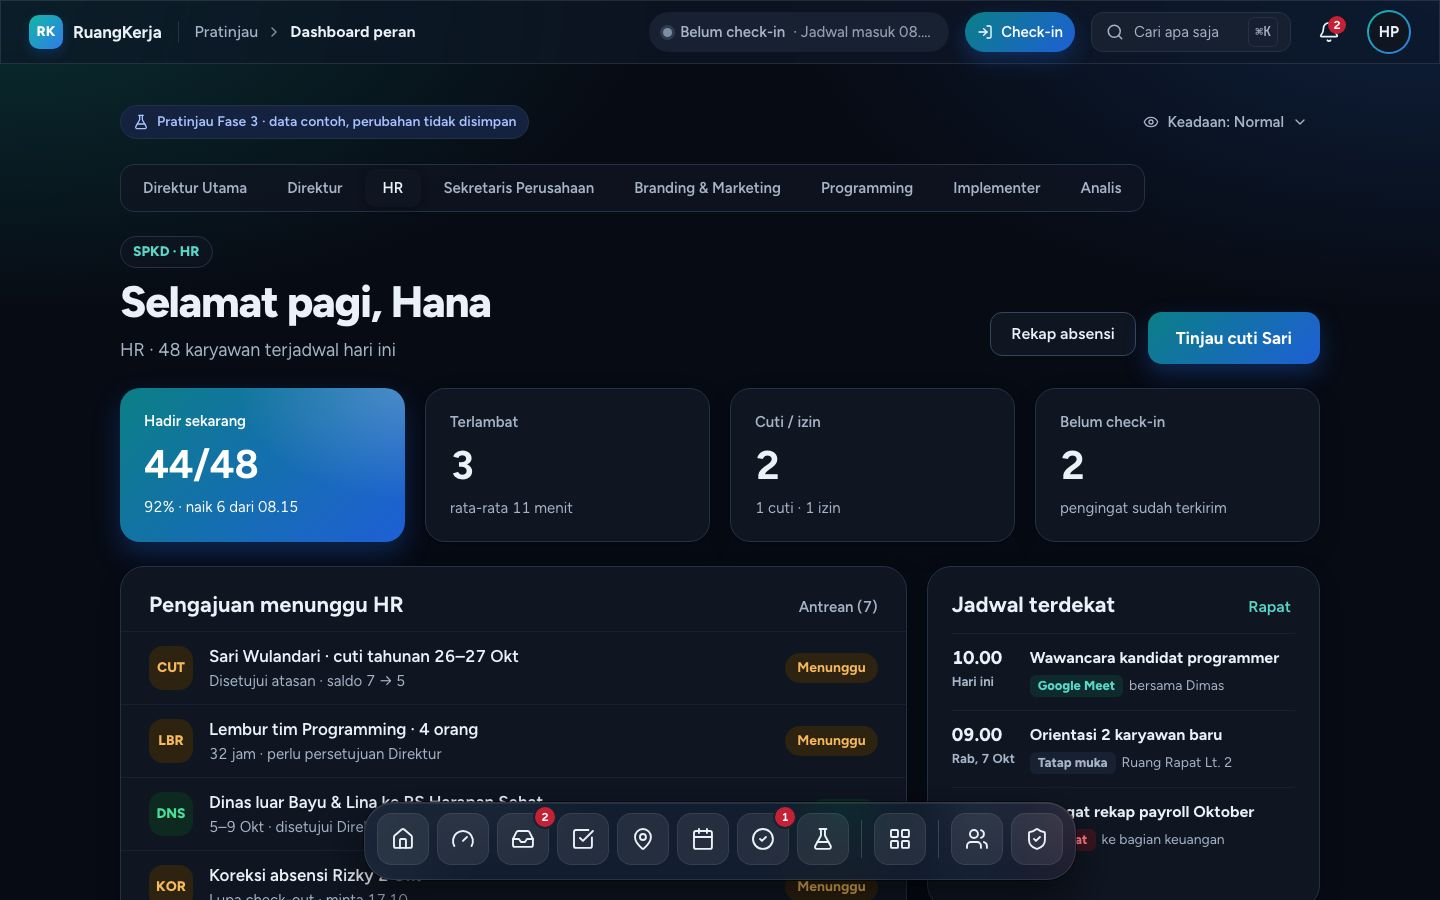
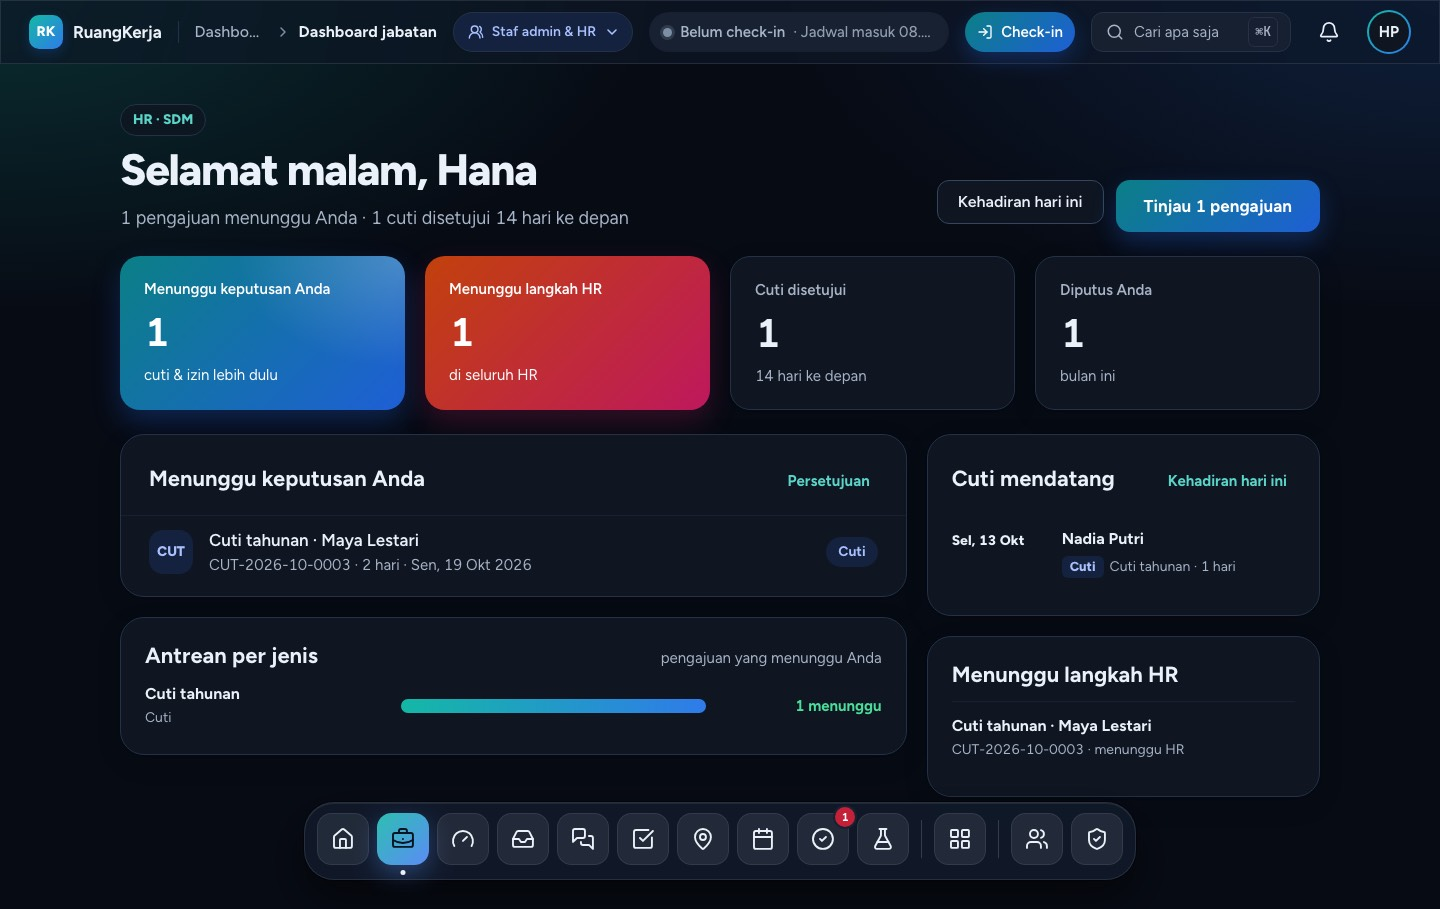
docs(peran): status Nyata dashboard per jabatan, tangkapan layar baru
Juga merapikan kolom samping tablet (kartu Ditahan tidak meregang).

diff --git a/resources/js/features/role-dashboards/role-dashboard.desktop.tsx b/resources/js/features/role-dashboards/role-dashboard.desktop.tsx
@@ -207,7 +207,7 @@ export function RoleDashboardDesktop({
                     </Panel>
                 </div>
 
-                <div className="grid min-w-0 gap-5 md:grid-cols-2 xl:grid-cols-1">
+                <div className="grid min-w-0 items-start gap-5 md:grid-cols-2 xl:grid-cols-1">
                     {config.held && <HeldCard held={config.held} />}
 
                     <Panel

diff --git a/docs/fitur/dashboard-peran.md b/docs/fitur/dashboard-peran.md
@@ -1,183 +1,106 @@
-# Dashboard per peran SPKD
+# Dashboard per jabatan SPKD
 
-> Pratinjau Fase 3 · dibangun Agen E · rute `/peran/{dirut,direktur,hr,corsec,marketing,programming,implementer,analis}` · data contoh, tidak menyimpan apa pun. Indeks: [README](README.md).
+> **Status: Nyata** (data server, alur nyata) · Fase 3 · flag `FEATURE_ROLE_DASHBOARDS` (`config/features.php` `role_dashboards`; nyala lokal, mati produksi) · rute `/peran`, `/peran/{dirut,direktur,hr,corsec,marketing,programming,implementer,analis}` (`routes/roles.php`) · Indeks: [README](README.md).
 
-## 1. Tujuan & masalah
+## 1. Tujuan & keputusan pemilik
 
-Dashboard Fase 1 dibagi per **peran akses** (Saya, Kepala Divisi, HR, Portofolio Direksi). Di SPKD, pekerjaan harian tiap jabatan berbeda jauh: Direktur Utama memutuskan proyek, Sekretaris Perusahaan mendisposisi surat, Implementer memperbarui tiket klien, Analis menjalankan UAT. Paket desain `docs/ruangkerja-design/` punya **RoleDesk/RolePhone** (satu templat beranda per peran) dan layar tugas **P\*** (PDirutKeputusan, PDirekturSetuju, PHRCuti, PCorsecSurat, PMarketingReview, PProgBug, PImplTiket, PAnalisUAT). Pratinjau ini menguji:
+Dashboard Fase 1 dibagi per **peran akses** (Saya, Kepala Divisi, HR, Portofolio, Manajemen). Di SPKD, pekerjaan harian tiap **jabatan** berbeda: Direktur Utama memutuskan proyek, Direktur menyetujui pengajuan, HR meninjau cuti, Kepala Divisi memantau tugas divisinya.
 
-- satu **templat beranda berbasis data**: sapaan, status, aksi utama + sekunder, 4 KPI, daftar kerja, batang progres, jadwal terdekat, panel samping;
-- satu **alur interaktif per peran** yang dibuka dari aksi utama, di Sheet kanan 560 px (desktop/tablet) atau bottom sheet (ponsel).
+- Dashboard jabatan **melengkapi**, tidak menggantikan, Dashboard Saya/Divisi/HR, Portofolio, dan Manajemen.
+- Penyesuaian 6 Okt: Dirut & Direktur **tidak** menampilkan metrik kerja/kehadiran (tingkat penyelesaian, lead time, kedisiplinan, keterlambatan, tren, kehadiran hari ini, beban kerja, tugas terlambat). Monitoring kerja ada di `/dashboard` (tombol "Monitoring kerja"). HR **tidak** menduplikasi kehadiran; tautan ke `/absensi/hari-ini`.
 
-## 2. Peran yang memakai
+## 2. Siapa membuka apa
 
-| Kunci | Jabatan (persona) | Aksi utama → alur |
-|---|---|---|
-| `dirut` | Direktur Utama (Hendra Wijaya) | Putuskan perpanjangan DEP → **keputusan proyek** (PDirutKeputusan) |
-| `direktur` | Direktur Operasional & Teknologi (Agus Setiawan) | Setujui 4 item → **persetujuan beruntun** (PDirekturSetuju) |
-| `hr` | HR (Hana Nuraini) | Tinjau cuti Sari → **tinjau cuti** (PHRCuti) |
-| `corsec` | Sekretaris Perusahaan (Nadia Putri) | Disposisi surat → **disposisi** (PCorsecSurat) |
-| `marketing` | Kadiv Branding & Marketing (Putri Ramadhani) | Review brosur tender → **review materi** (PMarketingReview) |
-| `programming` | Kadiv Programming (Dimas Pratama) | Tangani bug kritis → **progres bug** (PProgBug) |
-| `implementer` | Kadiv Implementer (Bayu Saputra) | Perbarui tiket P1 → **update tiket** (PImplTiket) |
-| `analis` | Kadiv Analis (Maya Lestari) | Jalankan UAT SIMRS → **eksekusi UAT** (PAnalisUAT) |
+HR memetakan jabatan ke dashboard di **Admin › Organisasi › Jabatan** (field "Dashboard jabatan", kolom `positions.dashboard_role`).
 
-Pratinjau tidak membatasi peran: siapa pun bisa berpindah peran lewat SegmentedTabs (desktop/tablet) atau ChipScroller (ponsel); URL ikut berganti. Persona di sini mengikuti desain RoleDesk (mis. Dimas = Kadiv Programming), berbeda dengan modul lain.
+| Kunci | Jabatan | Isi | Alur |
+|---|---|---|---|
+| `dirut` | Direktur Utama | Proyek aktif & kesehatan, butuh keputusan, milestone 14 hari, perlu perhatian, portofolio (progres vs rencana, milestone berikutnya) | **Putuskan** (nyata) |
+| `direktur` | Direktur | Antrean persetujuan, proyek aktif, butuh keputusan Direksi, milestone, portofolio | **Persetujuan beruntun** (nyata) |
+| `hr` | HR | Menunggu keputusan Anda, menunggu langkah HR, cuti disetujui 14 hari, diputus bulan ini, antrean per jenis, cuti mendatang | **Tinjau pengajuan** (nyata) |
+| `corsec` | Sekretaris Perusahaan | Tugas, tenggat, beban kerja, kehadiran unit | Ditahan: surat masuk & disposisi |
+| `marketing` | Branding & Marketing | sama (divisi) | Ditahan: review materi & pipeline konten |
+| `programming` | Programming | sama (divisi) | Ditahan: bug sprint & integrasi Git |
+| `implementer` | Implementer | sama (divisi) | Ditahan: tiket klien & check-in di klien |
+| `analis` | Analis | sama (divisi) | Ditahan: skenario & eksekusi UAT |
+
+**Akses** (Gate `viewRoleDashboard`): pemegang jabatan membuka **kuncinya sendiri**; Direksi & Super Admin membuka **semua kunci** (pemilih jabatan tampil). Selain itu **404**. `/peran` mengalihkan ke dashboard jabatan sendiri (Direksi tanpa jabatan ber-dashboard → `dirut`). Entri "Dashboard jabatan" di Dock/Rail/Menu hanya muncul bila flag nyala **dan** pengguna punya akses.
+
+Jabatan divisi memakai divisi pengguna bila ia Kepala Divisi/penonton perusahaan (Direksi bisa memilih divisi; bawaan = divisi pemegang jabatan). Staf yang memegang jabatan divisi hanya melihat **datanya sendiri**.
+
+Akun demo (`password`): `direksi@` → Dirut (lihat semua), `lestari.anggraini@` → Direktur, `hr@` → HR, `kadiv@` → Implementer (Operasional), `putri.ramadhani@` → Marketing, `yudi.hartono@` → Programming. Corsec & Analis tidak punya jabatan demo; buka sebagai `direksi@`.
 
 ## 3. Layar
 
-### Direktur Utama · `/peran/dirut` (masuk `direksi@demo.test`)
-
-![Dashboard Direktur Utama, desktop terang](img/dashboard-peran/dirut-desktop.jpg)
+![Dashboard Direktur Utama, desktop](img/dashboard-peran/dirut-desktop.jpg)
 
 ![Dashboard Direktur Utama, desktop Malam](img/dashboard-peran/dirut-desktop-malam.jpg)
 
 ![Dashboard Direktur Utama, ponsel](img/dashboard-peran/dirut-ponsel.jpg)
 
-![Sheet keputusan perpanjangan DEP (opsi A/B/C), desktop](img/dashboard-peran/dirut-keputusan-desktop.jpg)
-
-![Bottom sheet keputusan, ponsel](img/dashboard-peran/dirut-keputusan-ponsel.jpg)
-
-### Direktur · `/peran/direktur`
-
 ![Dashboard Direktur, desktop](img/dashboard-peran/direktur-desktop.jpg)
 
-![Dashboard Direktur, ponsel](img/dashboard-peran/direktur-ponsel.jpg)
+![Dashboard Direktur, ponsel Malam](img/dashboard-peran/direktur-ponsel-malam.jpg)
 
-![Sheet persetujuan beruntun dengan Tolak/Setujui per item](img/dashboard-peran/direktur-setujui-desktop.jpg)
-
-### HR · `/peran/hr` (masuk `hr@demo.test`)
-
-![Dashboard HR, desktop terang](img/dashboard-peran/hr-desktop.jpg)
+![Dashboard HR, desktop](img/dashboard-peran/hr-desktop.jpg)
 
 ![Dashboard HR, desktop Malam](img/dashboard-peran/hr-desktop-malam.jpg)
 
 ![Dashboard HR, ponsel](img/dashboard-peran/hr-ponsel.jpg)
 
-![Sheet tinjau cuti Sari: kalender Oktober dan pemeriksaan](img/dashboard-peran/hr-cuti-desktop.jpg)
+![Dashboard Implementer (divisi Operasional), desktop](img/dashboard-peran/implementer-desktop.jpg)
 
-![Tinjau cuti, ponsel](img/dashboard-peran/hr-cuti-ponsel.jpg)
+![Dashboard Implementer, tablet](img/dashboard-peran/implementer-tablet.jpg)
 
-### Sekretaris Perusahaan, Branding & Marketing
+![Dashboard Implementer, ponsel](img/dashboard-peran/implementer-ponsel.jpg)
 
-![Dashboard Sekretaris Perusahaan](img/dashboard-peran/corsec-desktop.jpg)
+## 4. Alur
 
-![Sheet disposisi surat: tujuan, instruksi, catatan](img/dashboard-peran/corsec-disposisi-desktop.jpg)
-
-![Dashboard Branding & Marketing](img/dashboard-peran/marketing-desktop.jpg)
-
-![Sheet review brosur dengan pin komentar](img/dashboard-peran/marketing-review-desktop.jpg)
-
-### Programming, Implementer, Analis
-
-![Dashboard Programming, desktop terang](img/dashboard-peran/programming-desktop.jpg)
-
-![Dashboard Programming, desktop Malam](img/dashboard-peran/programming-desktop-malam.jpg)
-
-![Dashboard Programming, ponsel](img/dashboard-peran/programming-ponsel.jpg)
-
-![Sheet progres bug kritis (stepper)](img/dashboard-peran/programming-bug-desktop.jpg)
-
-![Dashboard Implementer](img/dashboard-peran/implementer-desktop.jpg)
-
-![Sheet update tiket P1](img/dashboard-peran/implementer-tiket-desktop.jpg)
-
-![Dashboard Analis](img/dashboard-peran/analis-desktop.jpg)
-
-![Sheet eksekusi skenario UAT](img/dashboard-peran/analis-uat-desktop.jpg)
-
-## 4. Alur langkah demi langkah
-
-1. `/peran/dirut` → pilih peran lain lewat tab/chip (URL berganti, mis. `/peran/hr`).
-2. **Dirut:** "Putuskan perpanjangan DEP" (atau baris DEP) → pilih opsi A/B/C → "Putuskan opsi X" → toast + "Keputusan terkirim".
-3. **Direktur:** "Setujui 4 item" → Setujui/Tolak per item, hitungan "N menunggu" turun, Urungkan (inline atau aksi di toast).
-4. **HR:** "Tinjau cuti Sari" → kalender Okt + cek atasan/saldo/go-live/pengganti → **Setujui cuti**, atau **Tolak** → alasan wajib ≥ 5 karakter → Kirim penolakan.
-5. **Corsec:** "Disposisi surat" → centang tujuan & instruksi, ubah catatan → "Kirim disposisi ke N tujuan" (nonaktif bila 0 tujuan).
-6. **Marketing:** "Review brosur tender" → ketuk pin komentar 1–3, "Tandai selesai" → tombol "Setujui (N terbuka)" berubah "Setujui & kirim".
-7. **Programming:** "Tangani bug kritis" → stepper maju (lolos staging → deploy → selesai, bisa diulang).
-8. **Implementer:** "Perbarui tiket P1" → ganti status (radio), tambah foto → "Simpan update" menambah baris linimasa.
-9. **Analis:** "Jalankan UAT SIMRS" → centang langkah → Lulus/Gagal → 148/200 & progres naik, skenario berikutnya.
-
-Aksi sekunder (Ekspor PDF, Kalender konten, Kapasitas tim, Kehadiran langsung, Catat notulen, Check-in di klien, Review PR, Board sprint) baru berupa toast "tersedia saat modul aktif".
-
-```mermaid
-flowchart TD
-    R[/peran/role/] -->|tab / chip peran| R
-    R -->|aksi utama atau baris terkait| F{FlowSurface: Sheet 560 px / BottomSheet}
-    F --> D1[Dirut: pilih opsi → Putuskan]
-    F --> D2[Direktur: Setujui/Tolak per item → Urungkan]
-    F --> D3[HR: cek cuti → Setujui / Tolak + alasan]
-    F --> D4[Corsec: tujuan + instruksi → Kirim disposisi]
-    F --> D5[Marketing: selesaikan pin → Setujui & kirim]
-    F --> D6[Programming: stepper bug]
-    F --> D7[Implementer: status + foto → Simpan update]
-    F --> D8[Analis: langkah → Lulus/Gagal]
-    D1 & D2 & D3 & D4 & D5 & D6 & D7 & D8 -->|useFakeMutation| T[Toast + state lokal]
-    R -->|aksi sekunder| S[Toast 'tersedia saat modul aktif']
-```
-
-Alur backend nanti (contoh HR menyetujui cuti dari dashboard peran, memakai Action Fase 1):
+1. **Dirut · Putuskan** (sheet 560 px / bottom sheet): pilih keputusan (chip kode proyek) → progres vs rencana, ringkasan, hambatan → tulis keputusan (opsional) → **Putuskan**: teks dikirim ke PIC sebagai arahan (`GiveProjectDirection`) lalu keputusan ditutup (`ResolveProjectDecision`, audit `project.decision_resolved`, notifikasi). **Minta update** → `RequestProjectUpdate`.
+2. **Direktur · Persetujuan**: tiap pengajuan **Setujui** atau **Tolak** (alasan wajib) → `ApproveStep`/`RejectStep`. Item hilang seketika (optimistic) dan kembali dengan toast bila server menolak. Keputusan final (tidak ada urungkan).
+3. **HR · Tinjau pengajuan**: cuti/izin/sakit/dinas lebih dulu; detail lengkap (`RequestDetailCard`: periode, saldo, rekan yang absen, jejak persetujuan) → **Setujui** / **Tolak** / **Revisi** (catatan wajib untuk tolak & revisi). Pengajuan lain dimuat sesuai permintaan (`?pilih=`, partial reload `flow`).
+4. **Jabatan divisi**: aksi utama "Buka board divisi", sekunder "Dashboard divisi"; kartu **"Ditahan · butuh modul baru"** menjelaskan alur desain yang menunggu modul (tanpa tombol palsu).
 
 ```mermaid
 sequenceDiagram
     actor H as HR
-    participant W as Web (/peran/hr)
+    participant W as /peran/hr
     participant L as Laravel
-    participant DB as PostgreSQL
-    participant N as Notifikasi
-    H->>W: Setujui cuti
-    W->>L: POST /persetujuan/{approval}/setujui
-    L->>L: RequestApprovalPolicy, ApproveStep (Action Fase 1)
-    L->>DB: request_approvals, requests, leave_balances, attendance_days (transaksi) + audit_logs
-    L->>N: request.decided → pemohon
-    L-->>W: props RoleDashboard diperbarui (antrean −1)
+    H->>W: Setujui
+    W->>L: POST /peran/hr/persetujuan/{id}/setujui
+    L->>L: viewRoleDashboard + EmployeeRequestPolicy::decide → ApproveStep
+    L-->>W: redirect back (props dashboard + flow baru, toast)
 ```
 
-## 5. Penjelasan kode
+## 5. Kode
 
-| File | Peran |
+| Berkas | Isi |
 |---|---|
-| `pages/okr/role-dashboard.tsx` | Halaman (placeholder rute dibuat di folder `okr`). Menerima prop `role` dari rute (`whereIn` 8 kunci), memilih `RoleDashboardDesktop`/`RoleDashboardMobile`. Pemilihan peran memakai `router.get` dengan `preserveState`. |
-| `features/role-dashboards/types.ts` | `RoleKey`, `RoleDashboard` (sapaan, status, `primaryAction`, `secondaryAction`, `flow`, `kpis`, `list`, `bars`, `schedule`, `side`, `phone`), `RoleKpi`, `RoleRow`, `RoleBar`, `RoleScheduleItem`, `RoleFlowKey`, serta data tiap alur (`DecisionFlow`, `ApprovalItem`, `LeaveReviewFlow`, `DispositionFlow`, `MaterialReviewFlow`, `BugFlow`, `TicketFlow`, `UatFlow`). |
-| `features/role-dashboards/fixtures.ts` | `ROLE_DASHBOARDS` (satu config per peran, untuk desktop RoleDesk & ponsel RolePhone, disusun dengan helper `kpi()`, `row()`, `bar()`, `at()`, `tile()`), `DECISION_FLOW`, `APPROVAL_ITEMS`, `LEAVE_REVIEW_FLOW`, `DISPOSITION_FLOW`, `MATERIAL_REVIEW_FLOW`, `BUG_FLOW`, `TICKET_FLOW`, `UAT_FLOW`. |
-| `features/role-dashboards/lib.ts` (+ `lib.test.ts`) | `isRoleKey`, `placeOf`, `pendingCount`, `uatTally`, `nextBugStep`, `toggleIndex`, `reviewButtonLabel`, `emptyDashboard`. |
-| `role-dashboard.desktop.tsx`, `role-dashboard.mobile.tsx`, `role-picker.tsx`, `parts.tsx` | Templat beranda + pemilih peran. |
-| `flows/surface.tsx` (`FlowSurface`, `FlowLabel`), `flows/index.tsx` (pemetaan `RoleFlowKey` → komponen), `flows/*-flow.tsx` | Delapan alur P\*. |
+| `app/Domain/RoleDashboards/Enums/DashboardRole.php` | 8 kunci, `label()`, `flow()`, `heldModule()` |
+| `Services/RoleDashboardAccess.php` | aturan akses, `landing()` untuk `/peran` |
+| `Queries/RoleDashboardPresenter.php` | prop `dashboard` (deferred) & `flow` (live) |
+| `Queries/BoardRoleDashboard.php` | Dirut/Direktur dari `PortfolioDashboard` + `ApprovalQueue` (cache 5 menit, view `peran`) |
+| `Queries/HrRoleDashboard.php` | antrean keputusan, `HrDashboard::pendingHr` (baca saja), cuti mendatang |
+| `Queries/UnitRoleDashboard.php` | jabatan divisi dari `DivisionDashboard::metrics` + `TodayAttendance` |
+| `Actions/DecideProjectFromDashboard.php` | arahan + tutup keputusan |
+| `app/Http/Controllers/RoleDashboards/*` | `RoleDashboardController`, `RoleDecisionController`, `RoleApprovalController` |
+| `resources/js/pages/roles/show.tsx` | halaman (Deferred + skeleton + galat) |
+| `resources/js/features/role-dashboards/*` | templat desktop/ponsel, pemilih jabatan & divisi, `flows/{decision,approvals,leave-review}-flow.tsx`, `flows/submit.ts` |
 
-Keadaan pratinjau memakai `features/okr/preview.ts` + `preview-state.tsx` (`PreviewHeader`).
+Tidak ada tabel baru; hanya kolom `positions.dashboard_role` (`docs/DATABASE.md`).
 
-## 6. Bentuk data → tabel DATABASE.md
+## 6. Keadaan & aksesibilitas
 
-`RoleDashboard` adalah **proyeksi baca** dari data yang sebagian sudah ada; tidak ada tabel khusus.
+- Memuat: skeleton berbentuk tata letak; galat: EmptyState + "Coba lagi"; kosong: tiap panel punya teks kosong.
+- Pemilih jabatan: SegmentedTabs (WAI-ARIA tabs) di desktop/tablet, ChipScroller di ponsel; pemilih divisi: Select berlabel.
+- Sheet alur memakai Dialog Radix (fokus terjebak, Esc menutup); target sentuh ≥ 44 px; maks. satu gradien hangat per layar (diuji).
 
-| Panel | Sumber |
-|---|---|
-| KPI & daftar Dirut/Direktur | `workspaces` (proyek), `project_updates`, `milestones`, `request_approvals` |
-| HR (hadir, terlambat, cuti, antrean) | `attendance_days`, `requests`, `request_approvals`, `leave_balances` |
-| Programming (sprint, bug, PR) | `tasks` (+ label/kolom), integrasi Git **belum ada** |
-| Jadwal terdekat | `calendar_events` (F2-3) |
-| Corsec: surat & disposisi | **modul baru**: surat masuk, disposisi |
-| Implementer: tiket klien | **modul baru**: tiket klien + linimasa |
-| Analis: skenario UAT | **modul baru**: skenario & eksekusi UAT |
-| Marketing: pipeline konten, prospek, review materi | **modul baru** atau workspace + label |
+## 7. Yang ditahan
 
-## 7. Pekerjaan backend tersisa
+- Modul baru: surat masuk & disposisi (Corsec), tiket klien & check-in di klien (Implementer), skenario UAT (Analis), review materi & pipeline konten (Marketing), bug sprint & integrasi Git (Programming).
+- Jadwal rapat (`calendar_events`): panel jadwal memakai tenggat tugas / milestone / cuti yang sudah ada.
+- Layar P\* kedua dari desain (PDirutPortofolio, PDirekturKapasitas, PHRLive, dll.).
 
-- [ ] **Keputusan pemilik:** apakah dashboard per jabatan menggantikan atau melengkapi dashboard Saya/Divisi/HR/Portofolio, dan pemetaan jabatan SPKD (dirut/direktur/corsec/divisi) ke peran global + divisi.
-- [ ] Controller yang mengisi `RoleDashboard` dari data nyata (portofolio, persetujuan, absensi, pengajuan, tugas) dengan scope `visibleTo`, cache 5 menit seperti dashboard Fase 1.
-- [ ] Alur P\* memanggil Action yang ada: `ApproveStep`/`RejectStep` (Direktur & HR), keputusan proyek (`project_updates.decision_resolved_*`) untuk Dirut.
-- [ ] Modul baru bila disetujui: surat masuk & disposisi (Corsec), tiket klien (Implementer), skenario UAT (Analis), pipeline konten/prospek & review materi (Marketing); masing-masing dengan migrasi, Policy, Action, test.
-- [ ] Policy rute `/peran/{role}`: hanya jabatan terkait (+ Direksi/Super Admin), bukan semua karyawan seperti di pratinjau.
+## 8. Test
 
-## 8. Keadaan kosong/galat & aksesibilitas
-
-- Menu "Keadaan" atau `?keadaan=memuat|kosong|galat` (`emptyDashboard()` mengosongkan daftar sambil mempertahankan sapaan). Catatan: berganti peran menghapus query `?keadaan`.
-- Pemilih peran: SegmentedTabs (WAI-ARIA tabs, ←/→) di desktop, ChipScroller (radio) di ponsel.
-- Sheet alur memakai Dialog Radix (fokus terjebak, Esc menutup); tombol utama nonaktif dengan alasan terlihat (mis. 0 tujuan disposisi).
-- Badge selalu ikon/titik + teks; gradien hangat hanya untuk satu KPI per layar.
-
-## 9. Batasan prototipe
-
-- Hanya satu alur interaktif per peran; layar P\* kedua (PDirutPortofolio, PDirekturKapasitas, PHRLive, PCorsecNotulis, PMarketingKalender, PProgSprint, PImplCheckin, PAnalisReview) belum dibangun.
-- Persona berbeda dengan modul lain (Dimas = Kadiv Programming di sini).
-- Teks `PR #412` dsb. hanya di fixture `.ts` agar uji `color-tokens` tidak salah tangkap.
+`tests/Feature/RoleDashboards/RoleDashboardAccessTest.php` (matriks akses per kunci, Direksi/Super Admin, 404, nonaktif, `/peran`, flag mati, field jabatan, CHECK, seeder demo), `RoleDashboardFlowsTest.php` (presenter dengan data terkontrol, alur HR/Direktur/Dirut lewat endpoint dengan Policy & audit, perusahaan lain, jabatan divisi), `PageQueryCountTest` (`/peran/dirut|direktur|hr|implementer`), `resources/js/features/role-dashboards/lib.test.ts`.
